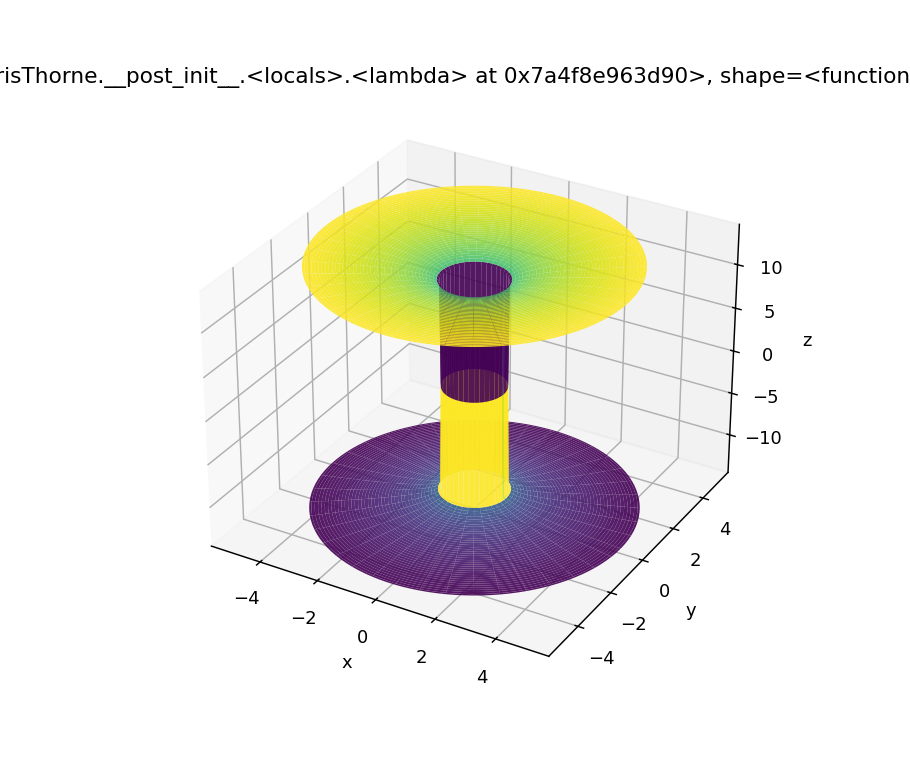
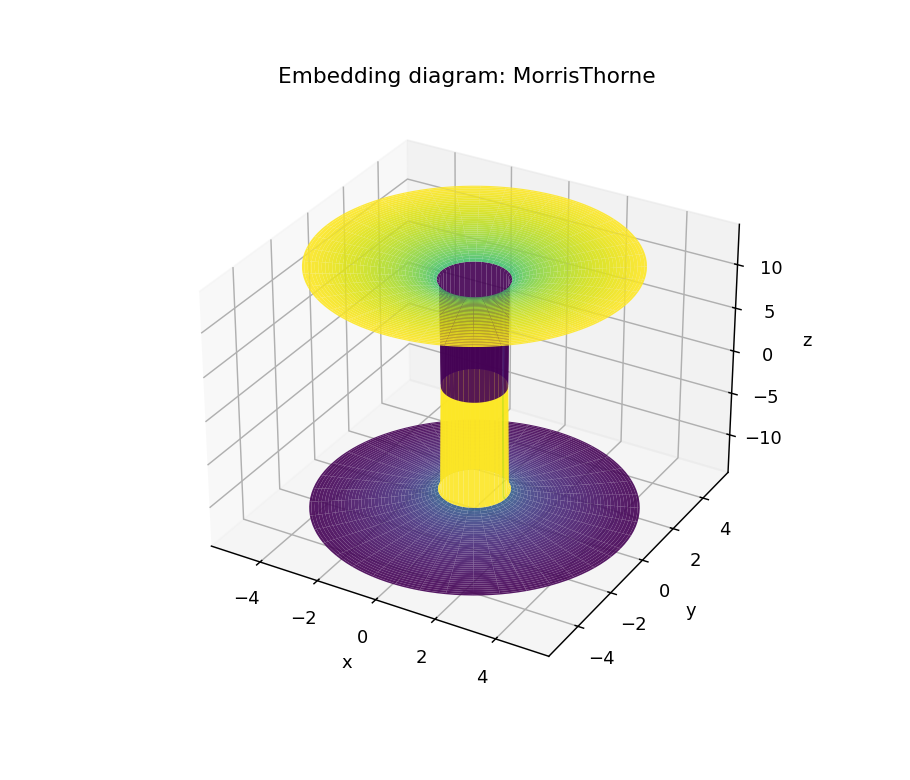
Fix CI: repair demo script, clean lint, relax ruff style rules

Changed region(s): [[0.2769, 0.0615, 1.0, 0.1231], [0.0, 0.0923, 0.2462, 0.1231]]

diff --git a/examples/run_demos.py b/examples/run_demos.py
@@ -1,7 +1,7 @@
 """End-to-end demonstration script.
 
-Runs the three milestone demos from docs/deliverables.md and saves figures to
-../figures/.  Execute from the repository root:
+Runs the milestone demos and saves figures to ../figures/.  Execute from the
+repository root:
 
     python examples/run_demos.py
 
@@ -37,7 +37,7 @@ os.makedirs(FIGDIR, exist_ok=True)
 
 def demo_embedding():
     wh = MorrisThorne(b0=1.0)
-    ax = plot_embedding_surface(wh, r0=wh.b0, r_max=5.0)
+    plot_embedding_surface(wh, r0=wh.b0, r_max=5.0)
     plt.savefig(os.path.join(FIGDIR, "embedding_morris_thorne.png"), dpi=130)
     plt.close("all")
     print("[1] embedding diagram saved")
@@ -57,7 +57,9 @@ def demo_nec():
     plt.plot(rs, rho_pr, "b-")
     plt.fill_between(rs, rho_pr, 0, where=np.array(rho_pr) < 0, color="red", alpha=0.2,
                      label="NEC violated")
-    plt.xlabel("r"); plt.ylabel(r"$\rho + p_r$"); plt.legend()
+    plt.xlabel("r")
+    plt.ylabel(r"$\rho + p_r$")
+    plt.legend()
     plt.title("Null energy condition across the throat")
     plt.tight_layout()
     plt.savefig(os.path.join(FIGDIR, "nec_profile.png"), dpi=130)
@@ -69,7 +71,8 @@ def demo_lensing():
     rhos, angles = demo_einstein_ring()
     plt.figure(figsize=(6, 4))
     plt.plot(rhos, np.degrees(angles), "g-")
-    plt.xlabel("impact parameter $\\rho$"); plt.ylabel("deflection angle (deg)")
+    plt.xlabel("impact parameter $\\rho$")
+    plt.ylabel("deflection angle (deg)")
     plt.title("Ellis wormhole light deflection")
     plt.tight_layout()
     plt.savefig(os.path.join(FIGDIR, "ellis_deflection.png"), dpi=130)
@@ -85,7 +88,8 @@ def demo_wave():
     plt.figure(figsize=(7, 4))
     for t, s in zip(times[::3], snaps[::3]):
         plt.plot(sim.l, s + 0.0 * t, lw=0.8)
-    plt.xlabel("proper radius $l$"); plt.ylabel(r"$\phi$")
+    plt.xlabel("proper radius $l$")
+    plt.ylabel(r"$\phi$")
     plt.title("Scalar wave scattering on the wormhole barrier")
     plt.tight_layout()
     plt.savefig(os.path.join(FIGDIR, "wave_scattering.png"), dpi=130)

diff --git a/visualization/lensing_image.py b/visualization/lensing_image.py
@@ -15,7 +15,6 @@ from __future__ import annotations
 
 import numpy as np
 
-from core.metrics import EllisBronnikov
 from visualization.raytrace import deflection_angle
 
 
@@ -58,8 +57,6 @@ def render_lensed_image(b0=1.0, cam_distance=10.0, fov_deg=60.0, res=480):
     fov_deg : full field of view of the (square) camera.
     res : output resolution in pixels.
     """
-    wh = EllisBronnikov(b0=b0)
-
     # Tabulate deflection vs. impact parameter once (same-universe rays, b > b0)
     b_tab = np.linspace(b0 * 1.0001, cam_distance * np.tan(np.radians(fov_deg)) + 5 * b0, 600)
     alpha_tab = np.array([deflection_angle(b0, b) for b in b_tab])
@@ -88,9 +85,6 @@ def render_lensed_image(b0=1.0, cam_distance=10.0, fov_deg=60.0, res=480):
     # Build sky coordinates from the outgoing direction
     sky_theta = out_ang
     sky_phi = azimuth
-    du = sky_theta * np.cos(azimuth)
-    dv = sky_theta * np.sin(azimuth)
-
     img = np.zeros((res, res, 3))
     # Same-universe pixels
     img[same] = _grid_sky(sky_theta[same], sky_phi[same], universe=+1)

diff --git a/examples/run_advanced.py b/examples/run_advanced.py
@@ -2,7 +2,8 @@
 
     python examples/run_advanced.py   ->   figures/
 """
-import os, sys
+import os
+import sys
 sys.path.insert(0, os.path.abspath(os.path.join(os.path.dirname(__file__), "..")))
 import numpy as np
 import matplotlib

diff --git a/core/stress_energy.py b/core/stress_energy.py
@@ -112,7 +112,6 @@ def null_energy_condition(metric: Metric, x: np.ndarray, n_dirs: int = 64) -> fl
     traversable wormhole throat).
     """
     T = stress_energy(metric, x)
-    g = metric.components(x)
     e_t, e_r, e_th, e_ph = _orthonormal_frame(metric, x)
     spatial = [e_r, e_th, e_ph]
 

diff --git a/tests/test_advanced.py b/tests/test_advanced.py
@@ -12,7 +12,6 @@ from core.semiclassical import (
 )
 from core.modified_gravity import ModifiedGravityWormhole
 from numerics.geodesic import GeodesicSolver, null_initial_velocity
-from numerics.orbits import radial_velocity_sq
 from numerics.qnm import RingdownExtractor, regge_wheeler_potential
 
 

diff --git a/tests/test_energy_conditions.py b/tests/test_energy_conditions.py
@@ -6,7 +6,6 @@ against the closed-form Morris-Thorne stress-energy components.
 """
 
 import numpy as np
-import pytest
 
 from core.metrics import MorrisThorne, EllisBronnikov
 from core import stress_energy as se